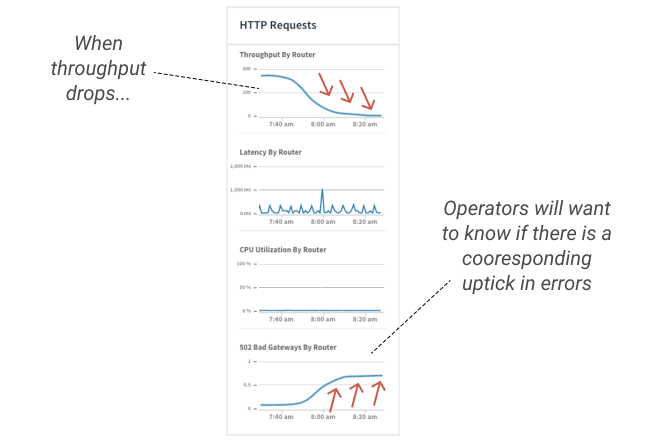
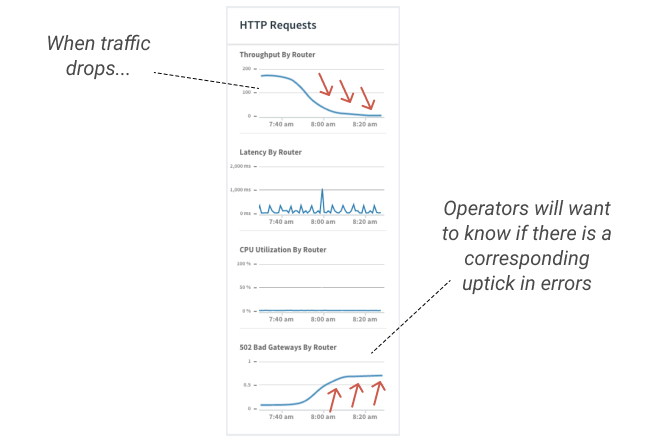
Change

Changed region(s): [[0.0613, 0.0588, 0.2454, 0.2353], [0.7055, 0.5588, 0.9202, 0.6176]]

diff --git a/index.html b/index.html
@@ -80,13 +80,13 @@
 	    	"></div>
 				<div class="col-md p-3 d-flex flex-column" style="min-width:340px;">
 					<div class="pb-2" style="font-size:0.66em; font-weight:200; color:#666;">Case Study</div>
-					<h4 class="section-card-header pb-2">Humanizing<br>Open Source</h4>
-					<div class="pb-2" style="font-size: 0.66em; line-height: 1.5;">
+					<h4 class="section-card-header pb-2">Humanizing Open Source</h4>
+					<div class="pb-3" style="font-size: 0.66em; line-height: 1.5;">
 						At VMWare, I was design lead for a compact, six-week effort to build a proprietary GUI on top of a popular open-source developer utility. 
 					</div>
-					<!--<div class="" style="font-size: 0.66em; line-height: 1.5;">
-						We put engineers at the heart of our ideation process.
-					</div>-->
+					<div class="" style="font-size: 0.66em; line-height: 1.5;">
+						This project included engineer-centered ideation and rapid prototyping with continuous feedback.
+					</div>
 					<div class="mt-auto">
 						<a href="serverless.html" tabindex="-1" role="button" 
 						class="round-button"
@@ -105,8 +105,8 @@
 		    </div>
 				<div class="col-md p-3 d-flex flex-column" style="min-width:340px;">
 					<div class="pb-2" style="font-size:0.66em; font-weight:200; color:#666;">Case Study</div>
-					<h4 class="section-card-header pb-2">Imbuing Design With<br>Expertise</h4>
-					<div class="pb-2" style="font-size: 0.66em; line-height: 1.5;">
+					<h4 class="section-card-header pb-2">Imbuing Design With Expertise</h4>
+					<div class="pb-3" style="font-size: 0.66em; line-height: 1.5;">
 						From product validation through launch, I led design for Pivotal HealthWatch, an app for monitoring the health of Pivotal’s cloud operating system. 
 					</div>
 					<div class="" style="font-size: 0.66em; line-height: 1.5;">
@@ -130,7 +130,7 @@
 	    	"></div>
   			<div class="col-md p-3 d-flex flex-column" style="min-width:340px;">
   				<div class="pb-2" style="font-size:0.66em; font-weight:200; color:#666;">Case Study</div>
-					<h4 class="section-card-header pb-2">Pivotal Developer<br>Console</h4>
+					<h4 class="section-card-header pb-2">Pivotal Developer Console</h4>
 					<div class="" style="font-size: 0.66em; line-height: 1.5;">
 						I guided a balanced team through an ambitious effort to reimagine how engineers in large enterprises get the tools they need to build software. <!--I led a six-week research track and, after that, a week-long ideation effort through a vast problem space.-->
 					</div>

diff --git a/healthwatch.html b/healthwatch.html
@@ -879,7 +879,7 @@
     <div class="row">
       <div class="col-md">
         <div class="regular-lg pb-0">
-          When there is a drop in traffic (top arrow), the operator will want to know if it coresponds to an increase in errors (bottom arrow). That would mean there is likely a problem and not a natural decrease in traffic.
+          When there is a drop in traffic (top arrows), the operator will want to know if it coresponds to an increase in errors (bottom arrows). That would mean there is likely a problem and not a natural decrease in traffic.
         </div>
       </div>
     </div>
@@ -897,7 +897,7 @@
     <div class="row">
       <div class="col-md">
         <div class="regular-lg pb-2">
-          When there is an increase in traffic (top arrow), the operator will want to know if the routers are handling the load. This is where router CPU usage (bottom arrow) comes into play.
+          When there is an increase in traffic (top arrows), the operator will want to know if the routers are handling the load. This is where router CPU usage and latency come into play.
         </div>
       <!--
         <div class="regular-lg pb-4">

diff --git a/serverless.html b/serverless.html
@@ -532,7 +532,7 @@
           <div class="bold-5  pb-4">Getting the right people in the room</div>
           In my experience, this means customer advocates (if not actual customers), people from related projects, engineers, and domain experts. 
         </div>
-        <div class="regular-lg pb-4">
+        <div class="regular-lg pb-5">
           <div class="bold-5 pb-4">Get everyone into the user's shoes</div>
           That means getting people comfortable with the process, encouraging them to think laterally and, framing the problem from the user’s perspective.
         </div>

diff --git a/style.css b/style.css
@@ -276,13 +276,14 @@ p.center-lg {
 }
 
 .caption {
-	font-size: 0.66em;
+	font-size: 1em;
 	font-weight: 400;
-	font-style: italic;
-	color:#666;
+	font-family: 'Garamund', serif;
+	/*font-style: italic;*/
+	color:#999;
 	line-height:1.3;
 	text-align: center;
-	max-width:650px;
+	max-width:600px;
 	margin-left: auto;
 	margin-right: auto;
 }
